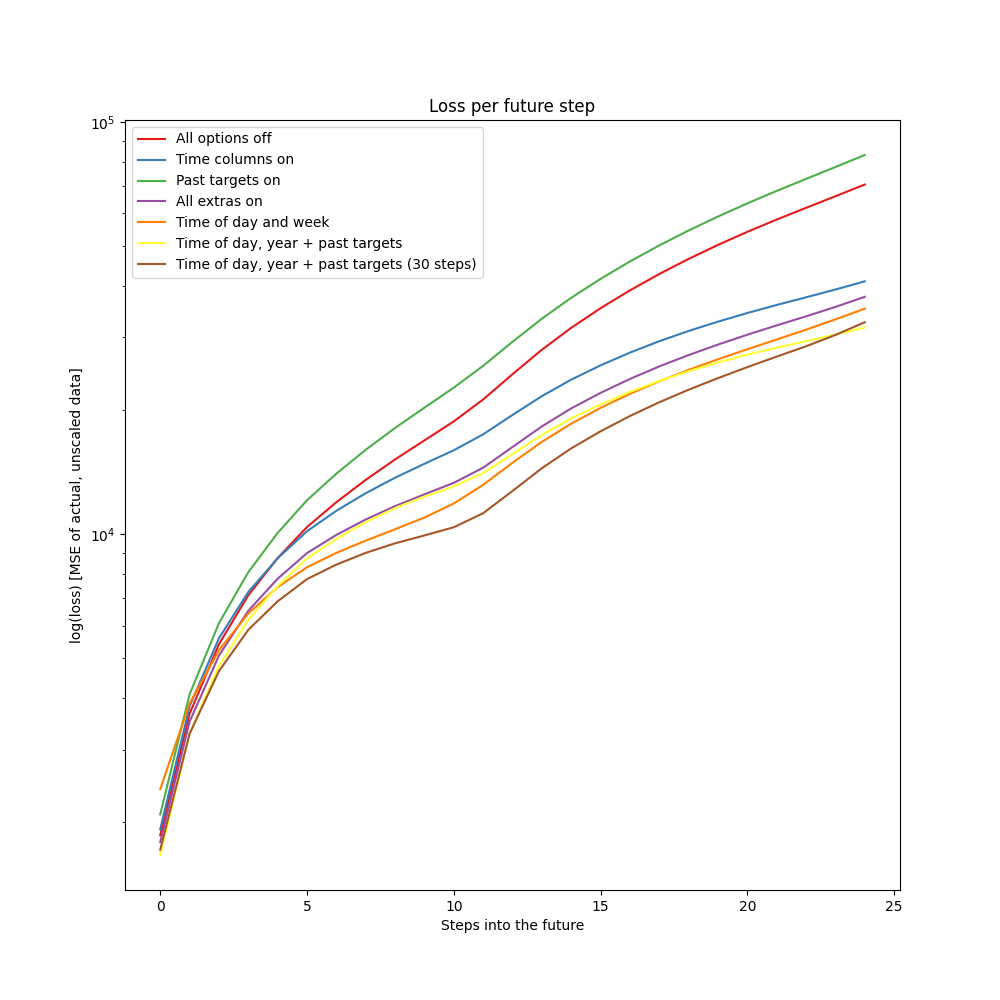
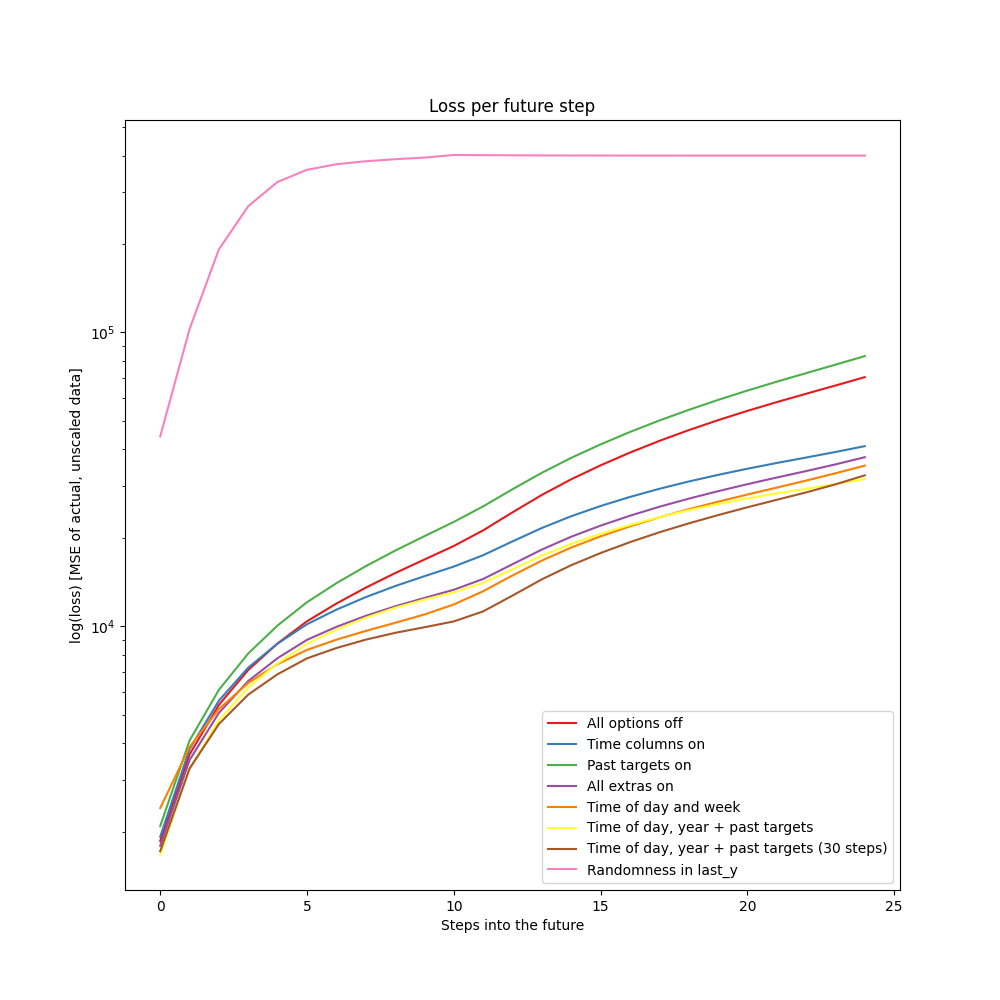
Add results of run with randomness in last_y

diff --git a/Project 3 - Imbalance forecasting/exploration/plot_model_prediction_differences.py b/Project 3 - Imbalance forecasting/exploration/plot_model_prediction_differences.py
@@ -48,6 +48,7 @@ if __name__ == "__main__":
         ("All extras on", "models/configs/4_all_on.yml", "models/4_all_on.pt"),
         ("Time of day and week", "models/configs/5_day_week.yml", "models/5_day_week.pt"),
         ("Time of day, year + past targets", "models/configs/6_day_year_hanging.yml", "models/6_day_year_hanging.pt"),
-        ("Time of day, year + past targets (30 steps)", "models/configs/7_day_year_targets_more_memory.yml", "models/7_day_year_targets_more_memory.pt")
+        ("Time of day, year + past targets (30 steps)", "models/configs/7_day_year_targets_more_memory.yml", "models/7_day_year_targets_more_memory.pt"),
+        ("Randomness in last_y", "models/configs/8_randomness_last_y.yml", "models/8_randomness_last_y.pt"),
     ]
     plot_prediction_losses(paths)

diff --git a/Project 3 - Imbalance forecasting/exploration/plot_model_differences.py b/Project 3 - Imbalance forecasting/exploration/plot_model_differences.py
@@ -31,5 +31,6 @@ if __name__ == "__main__":
         ("Time of day and week", "models/losses/5_day_week.losses"),
         ("Time of day, year + past targets", "models/losses/6_day_year_hanging.losses"),
         ("Time of day, year + past targets (30 steps)", "models/losses/7_day_year_targets_more_memory.losses"),
+        ("Randomness in last_y", "models/losses/8_randomness_last_y.losses")
     ]
     plot_losses(loss_list)
